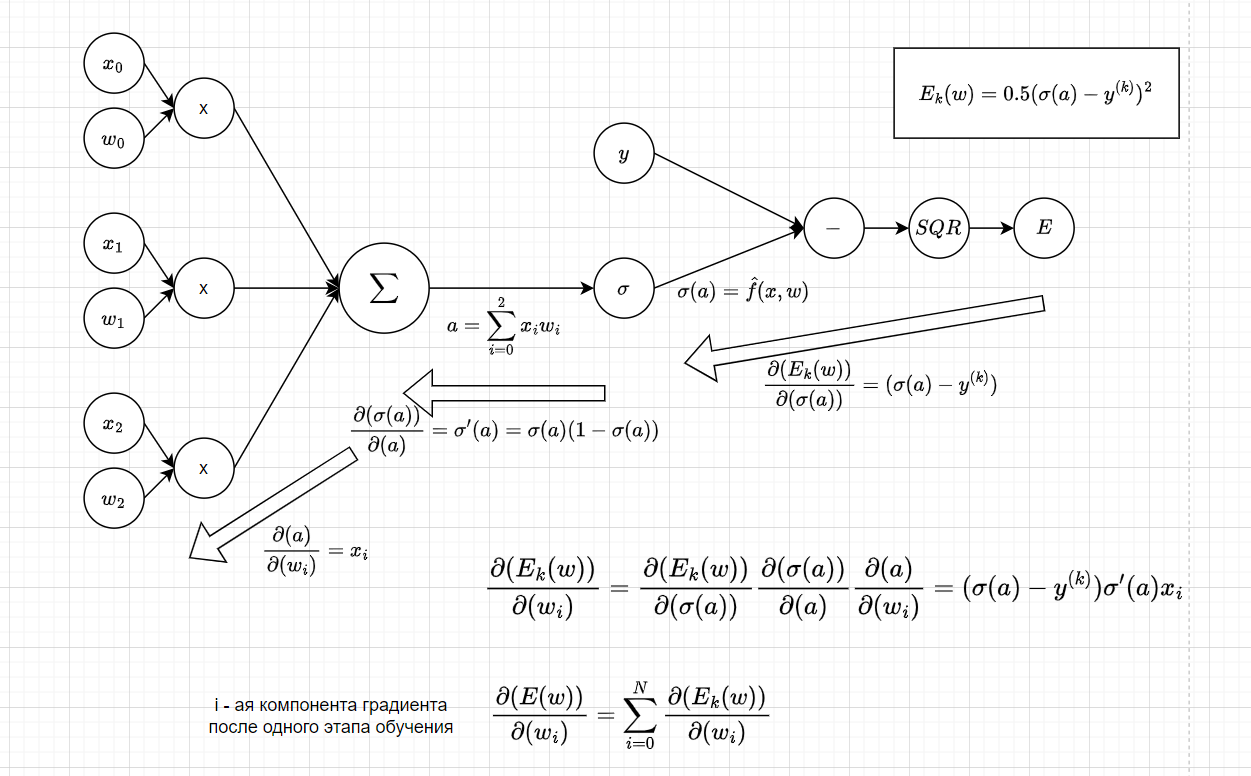
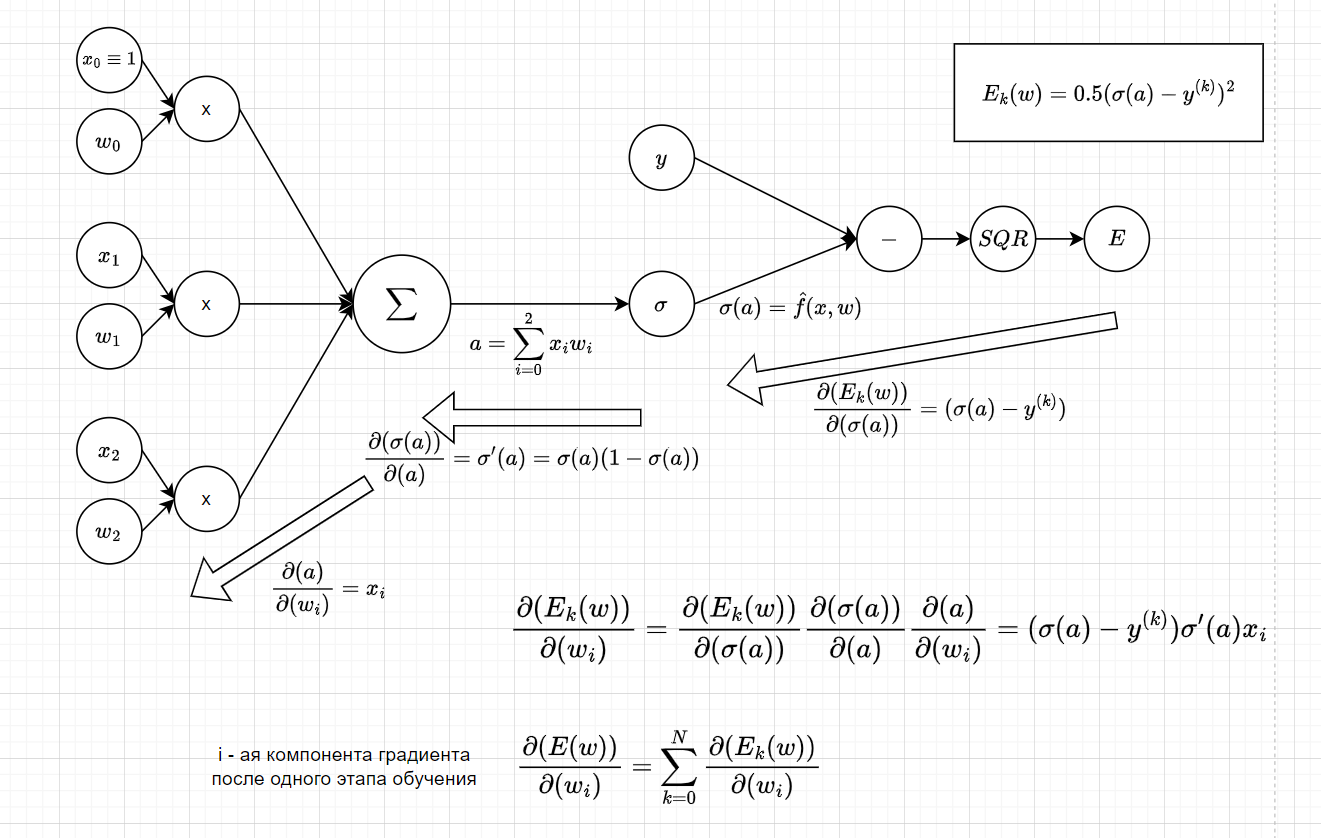
Добавил вычислительный граф

diff --git a/SMGMO/lab2/main.py b/SMGMO/lab2/main.py
@@ -69,7 +69,7 @@ def main():
             type = "circle" для генерации кольцевой выборки
                  = "gauss" для генерации двух Гауссовых множеств
     """
-    train_set = generator.generate(num_points, noise, "gauss")
+    train_set = generator.generate(num_points, noise, "circle")
     draw_set(train_set)
 
     """ INFO: 

diff --git a/SMGMO/lab2/Perceptron.py b/SMGMO/lab2/Perceptron.py
@@ -23,7 +23,7 @@ def prepare_data(train: np.ndarray, feature_size):
     elif feature_size == 5:  # Получим кривую
         train_data = np.hstack((np.ones(len(train_set)).reshape(-1, 1), train_set, train_set ** 2))
     else:
-        raise ValueError("Invalid weight vector dimension")
+        raise ValueError("Invalid feature size")
     return train_data, class_data
 
 
